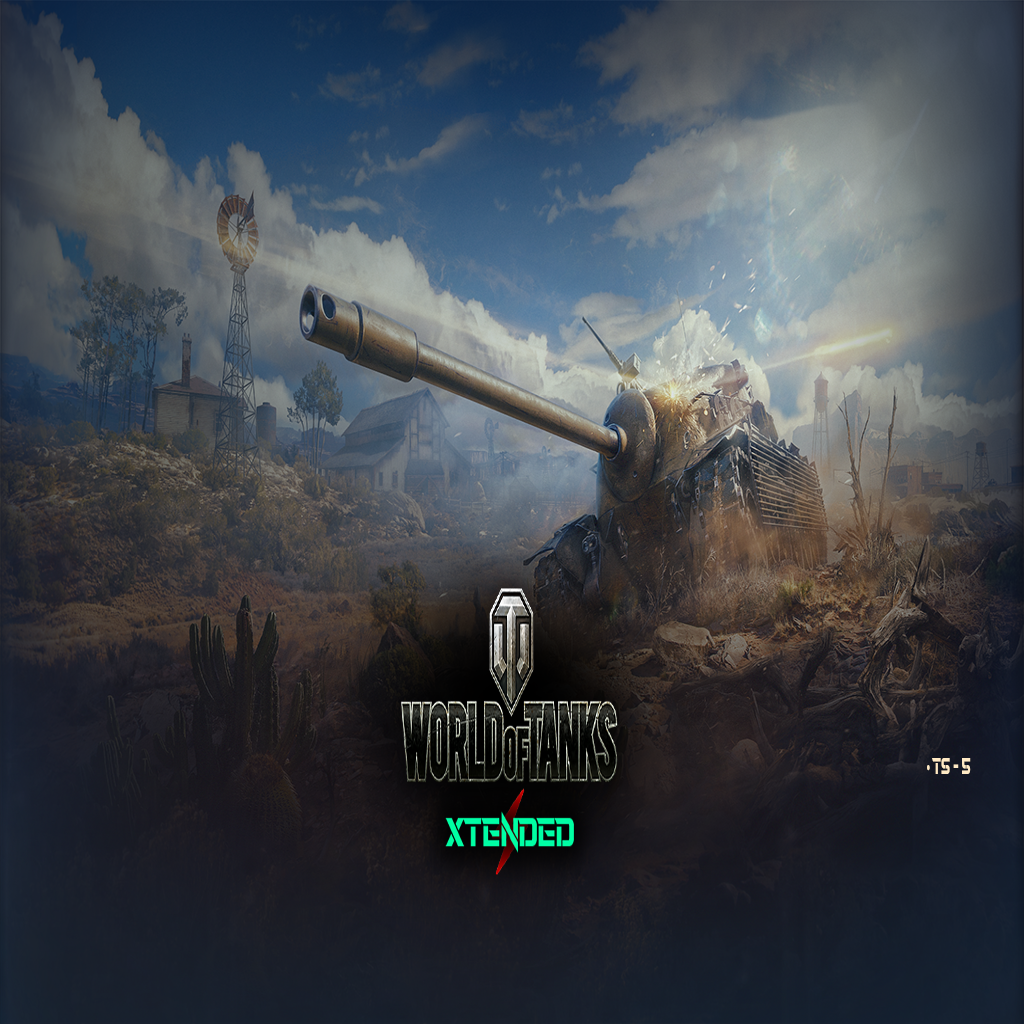
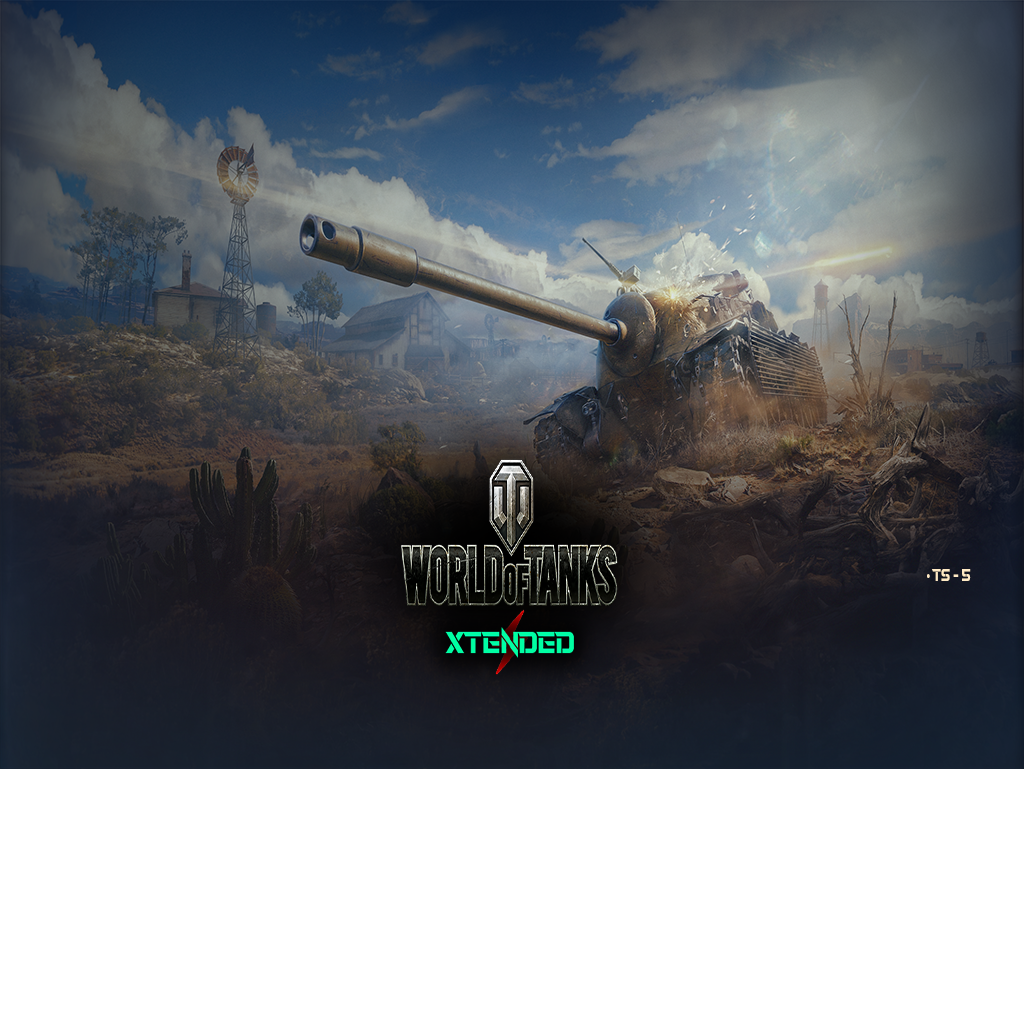
new loginscreen background reworks

diff --git a/build.md b/build.md
@@ -1,7 +1,7 @@
-38
+42
 
-v2.4.2-main
+v2.4.3-main
 
-21 August 2023 07:47:54
+21 August 2023 13:47:15
 
 

diff --git a/version.md b/version.md
@@ -1,1 +1,1 @@
-v2.4.2-main
+v2.4.3-main
